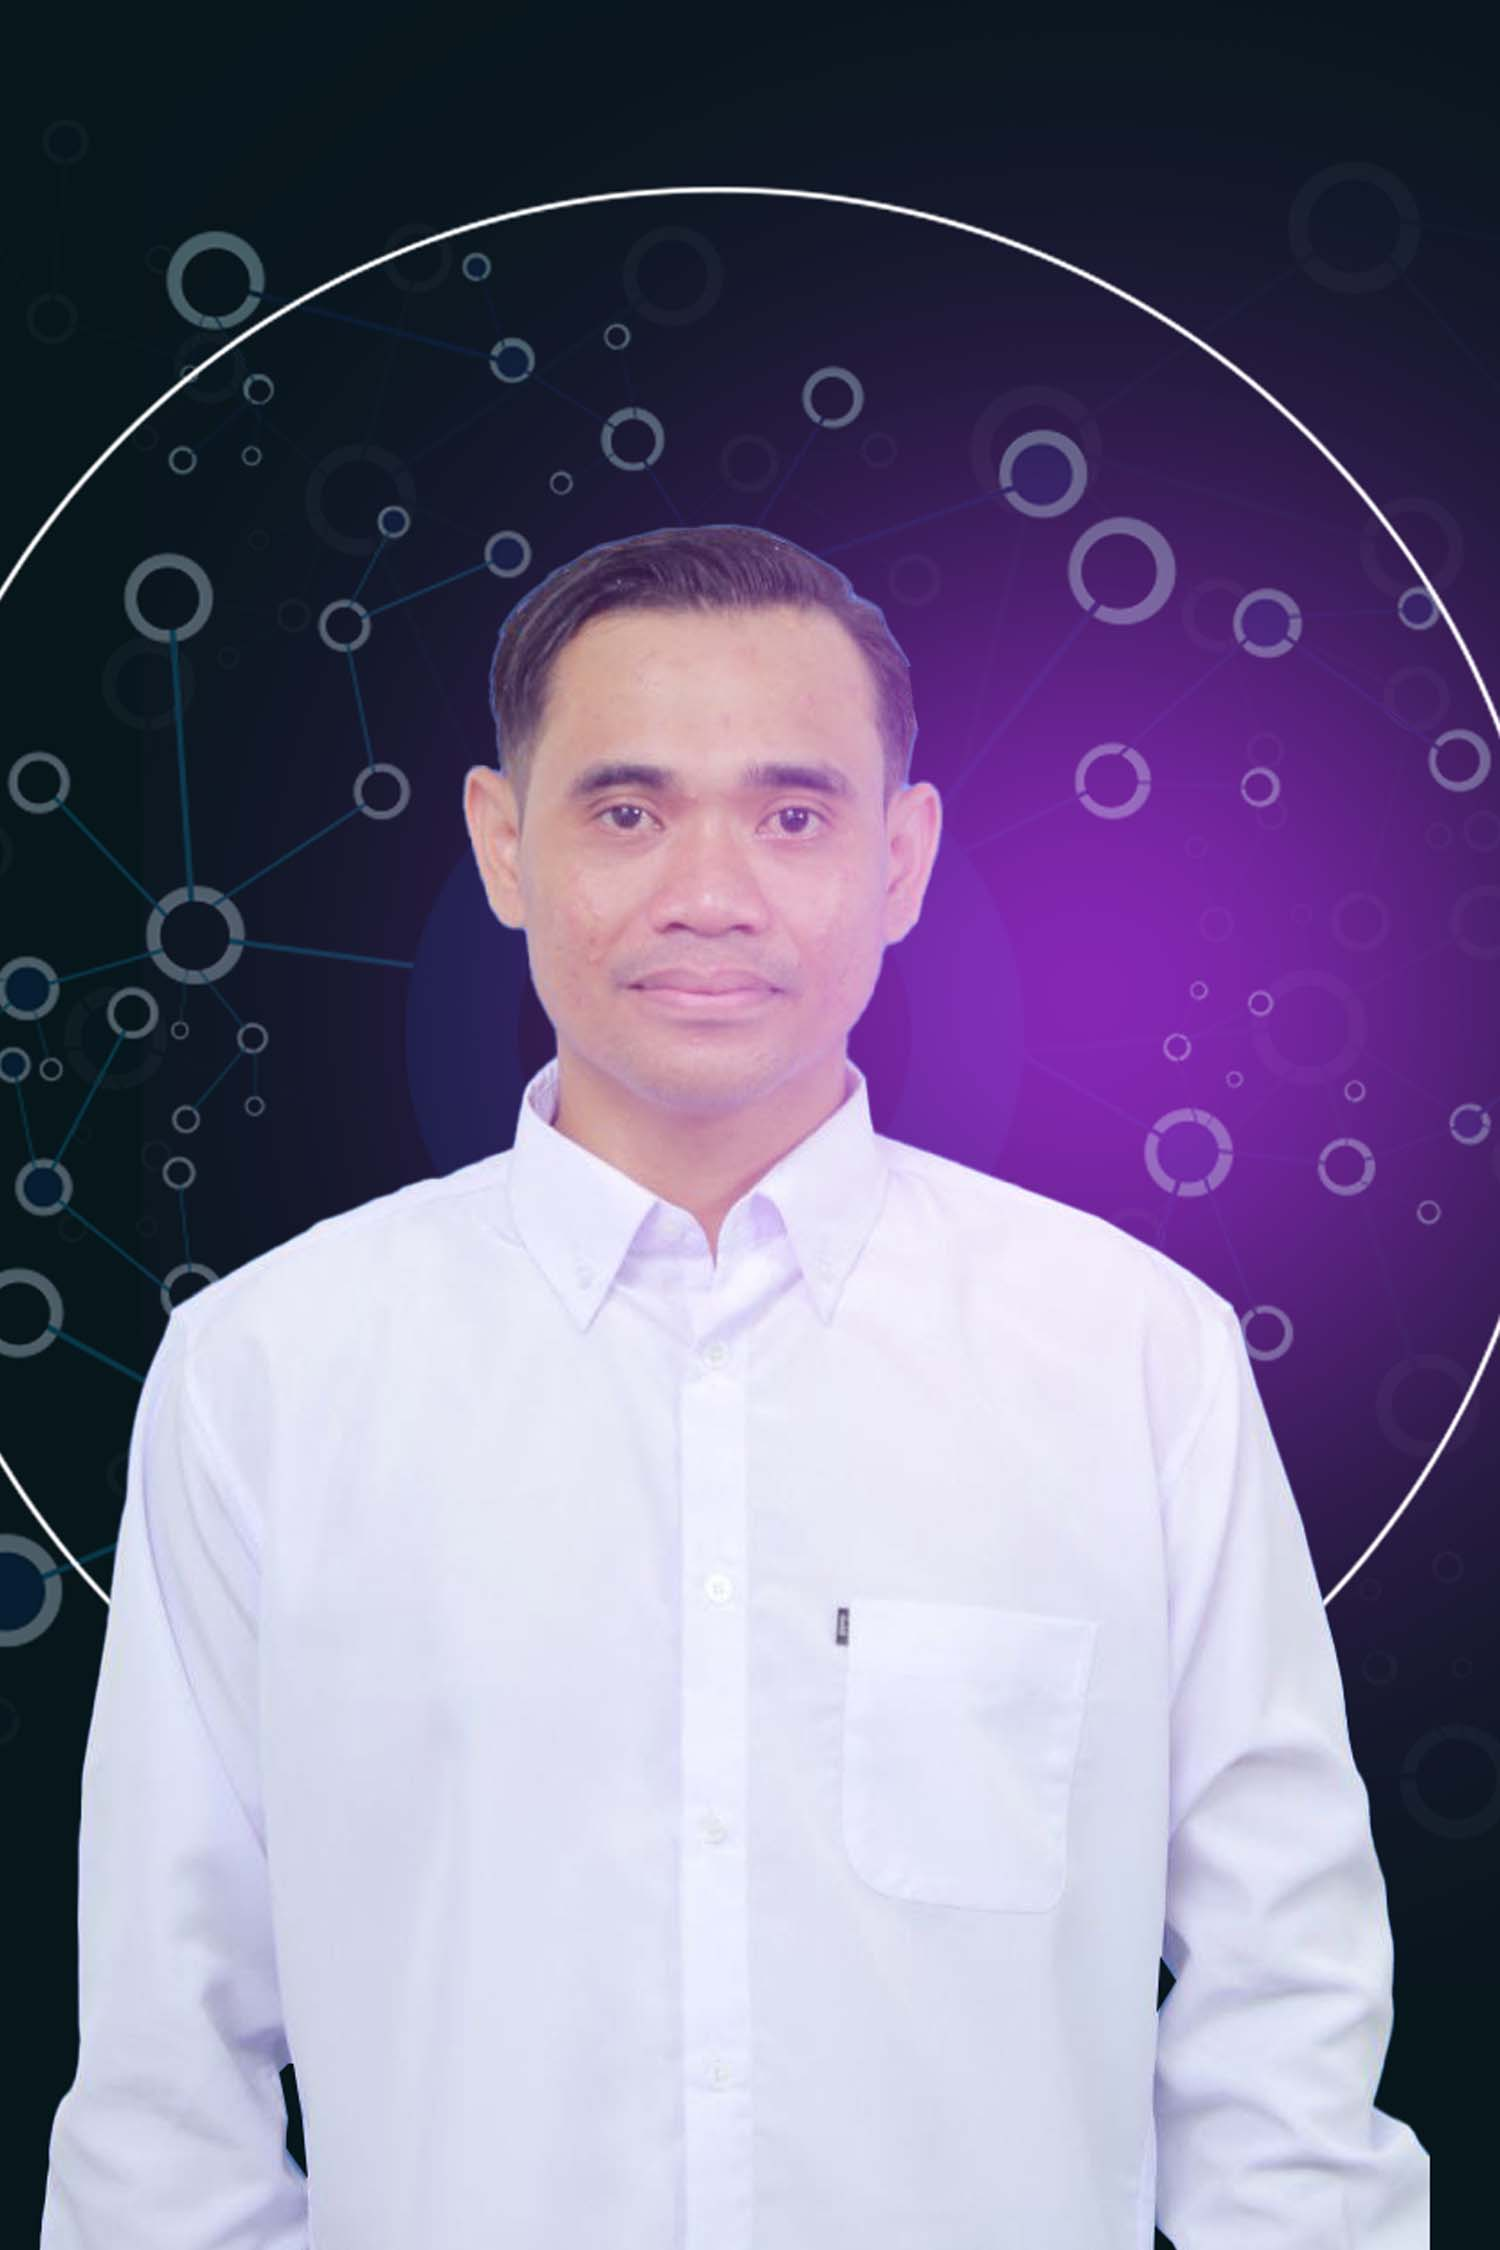
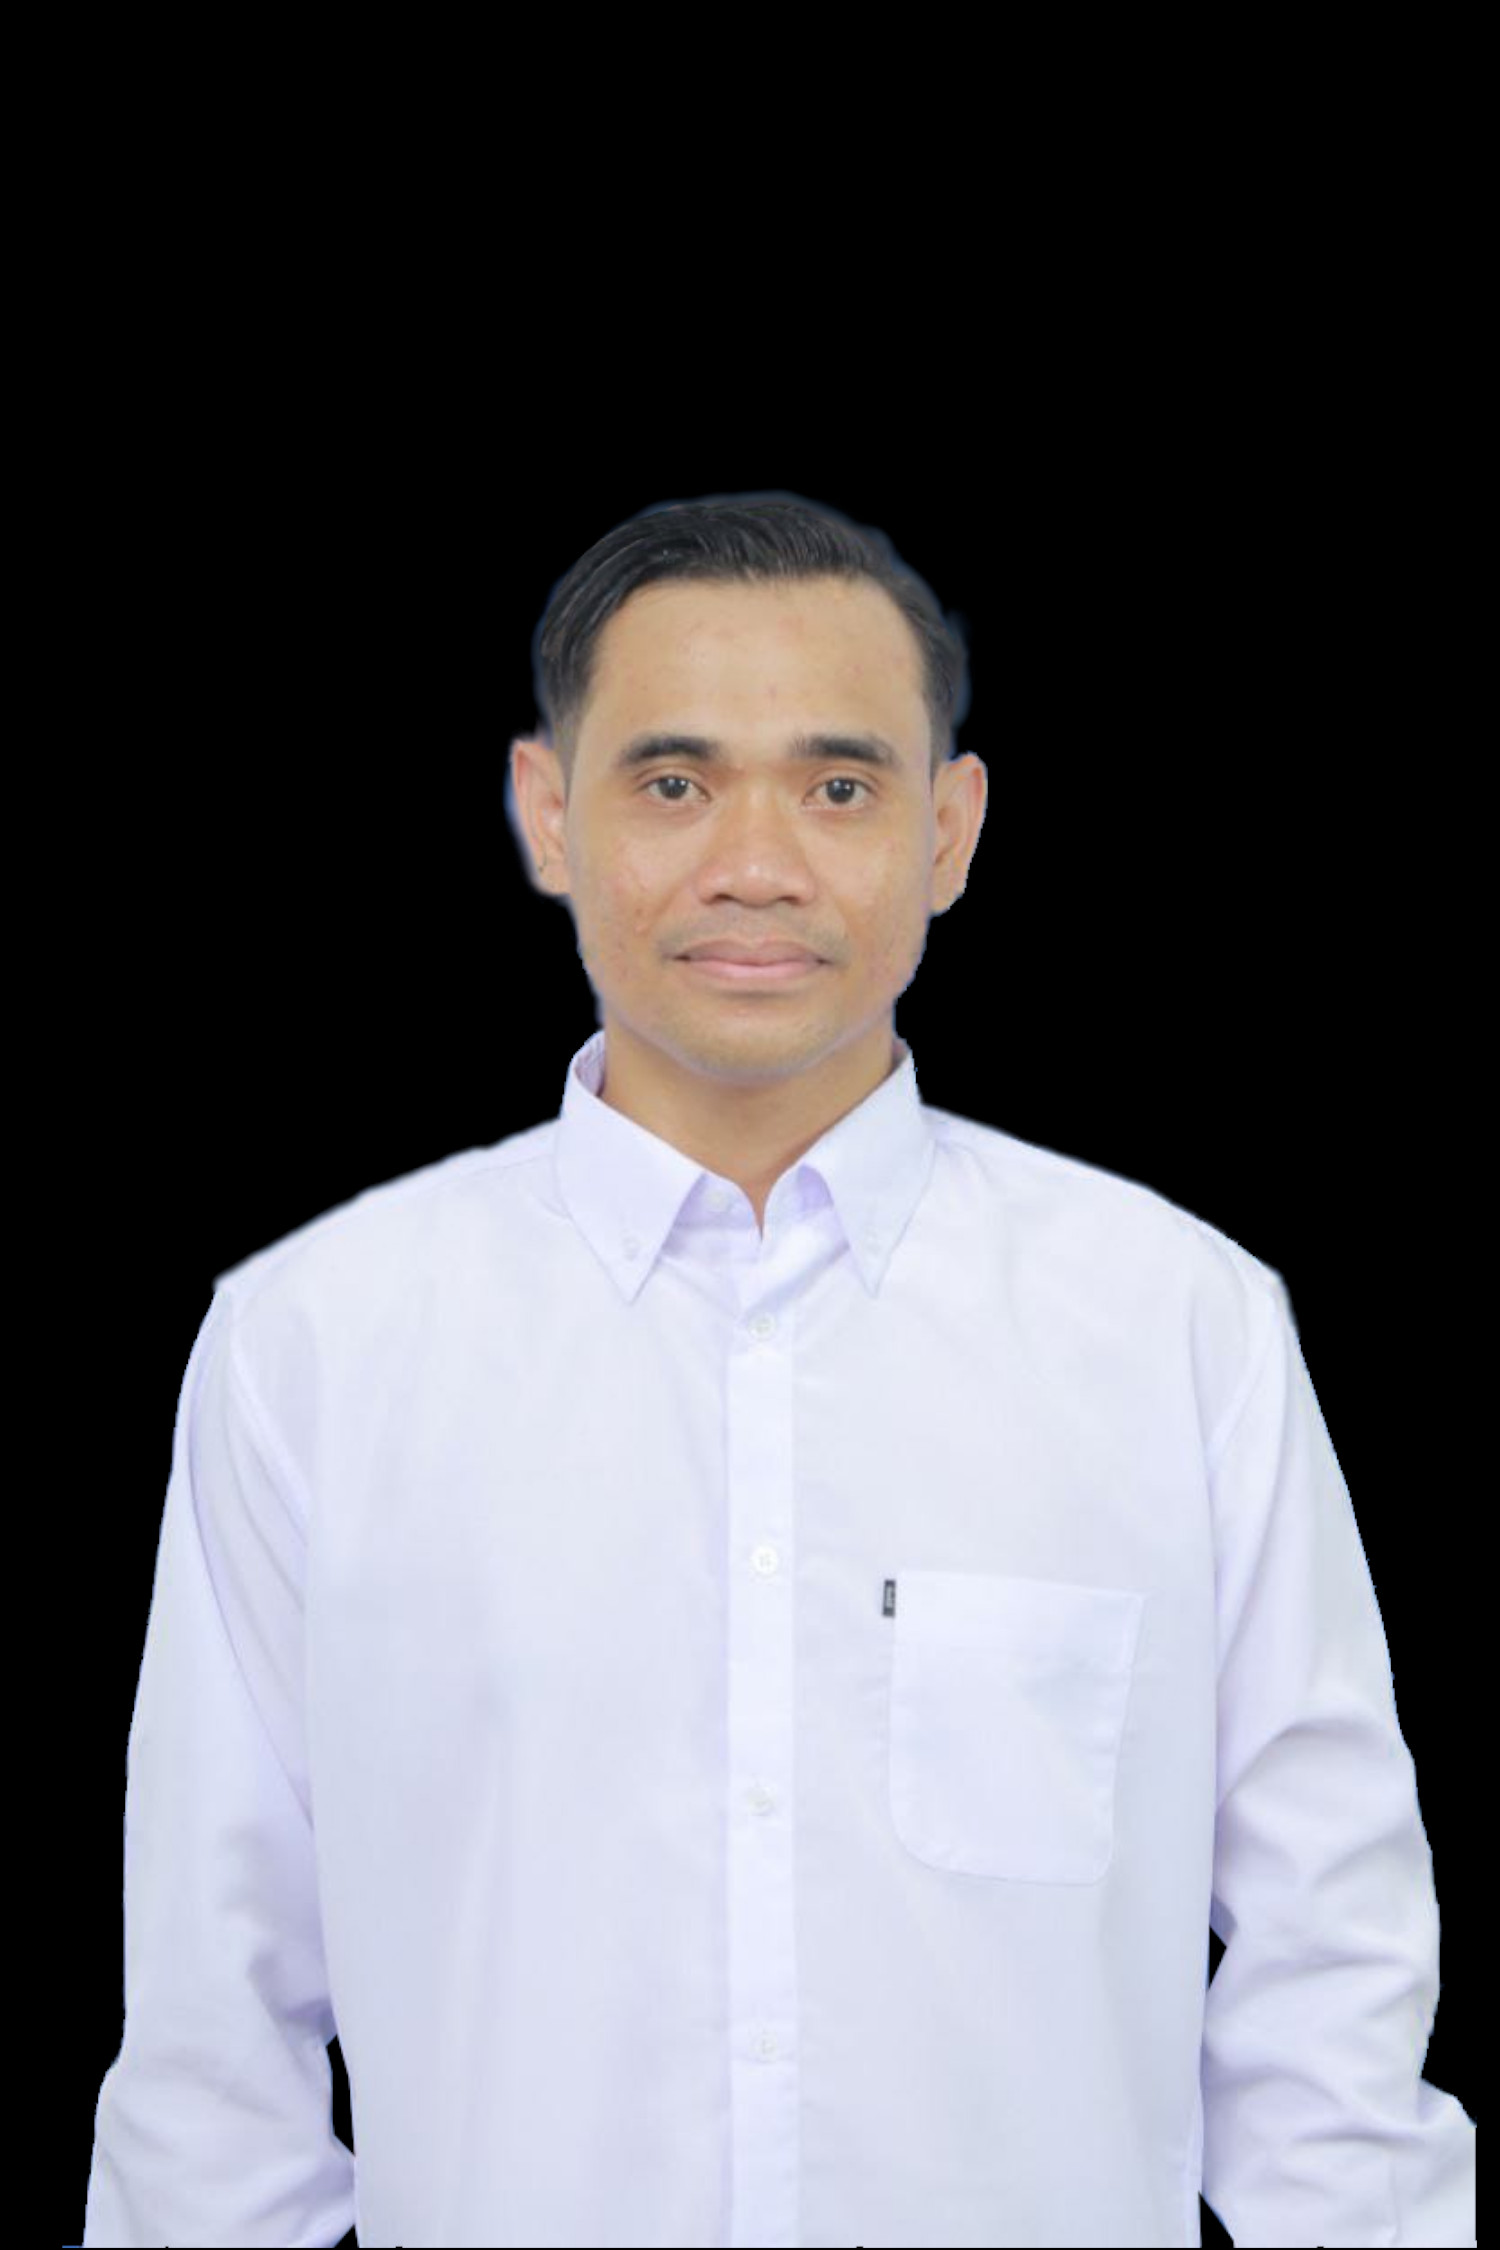
Merubah foto file

diff --git a/css/main.css b/css/main.css
@@ -1927,7 +1927,7 @@ input::-moz-focus-inner {
   background-color: #02182c;
   background-repeat: no-repeat;
   background-position: top center;
-  background-image: url(../images/hero-pic.jpg);
+  background-image: url(../images/hero-pic.png);
   background-size: cover;
   position: absolute;
   top: 20%;
